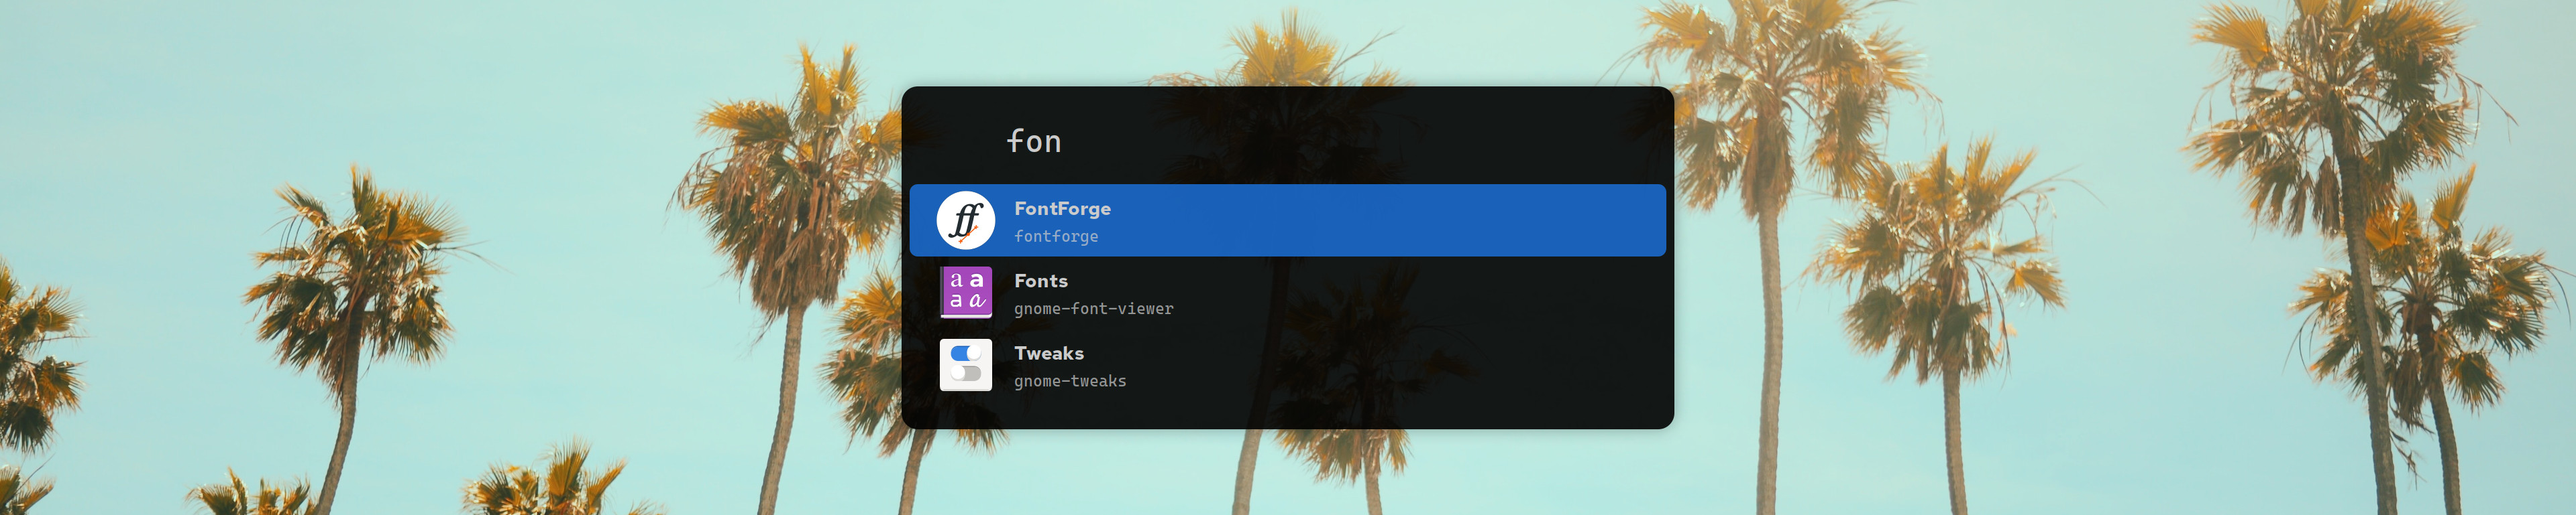
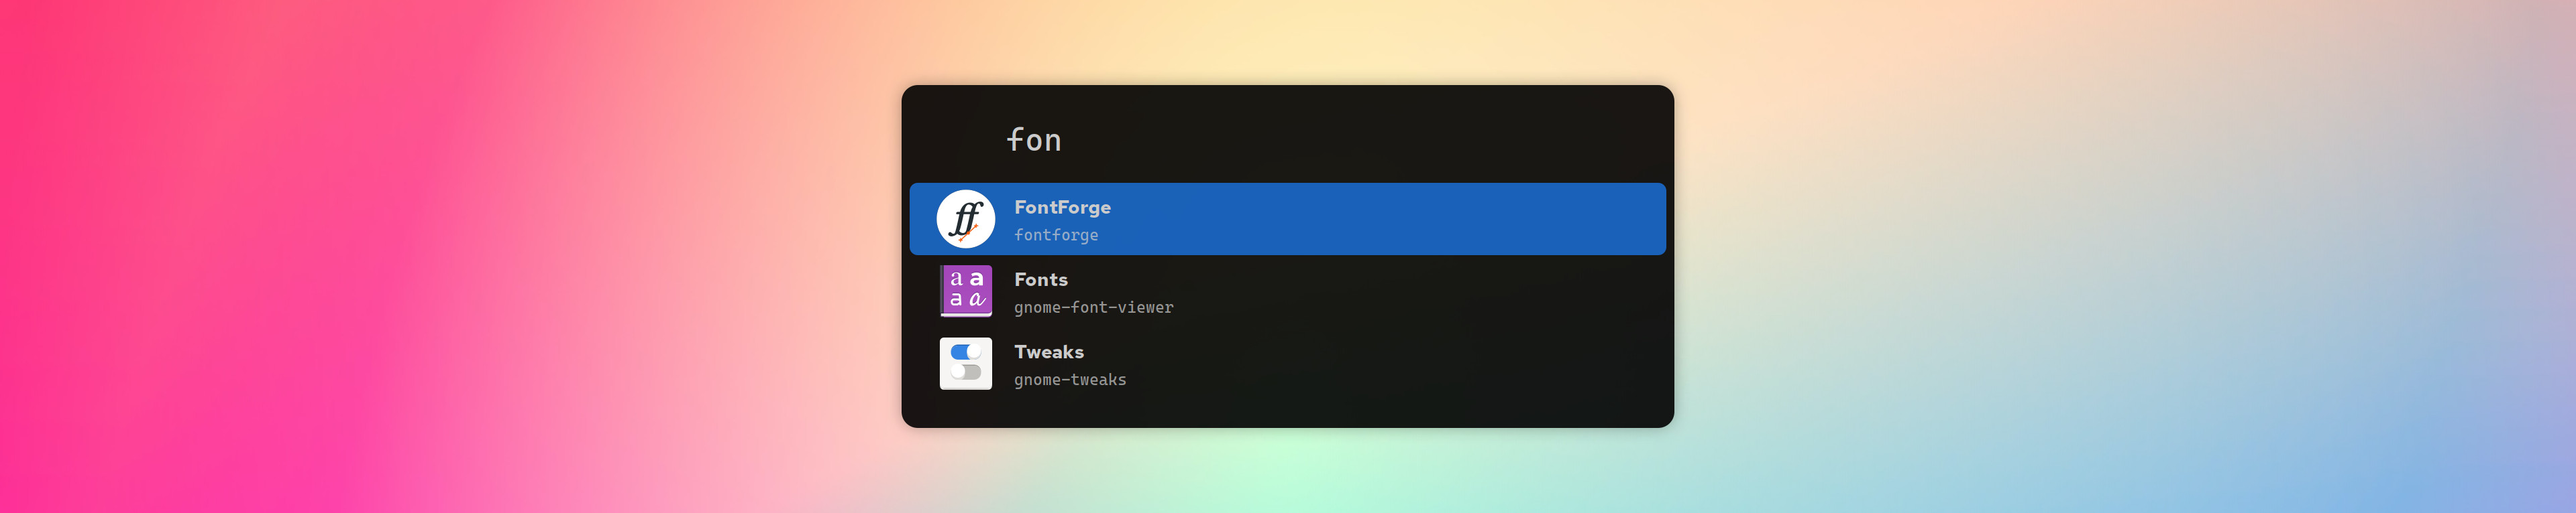
Update wallpaper

diff --git a/index.html b/index.html
@@ -14,7 +14,7 @@
   </head>
   <body>
     <div id="screenshot">
-      <p>Wallpaper: <a href="https://unsplash.com/photos/2YGrbLlbz6Y">Julian Myles</a></p>
+      <p>Wallpaper: <a href="https://unsplash.com/photos/LeG68PrXA6Y">Gradienta</a></p>
     </div>
     <div id="header" class="container-fluid section">
       <h1>catapult launcher</h1>
